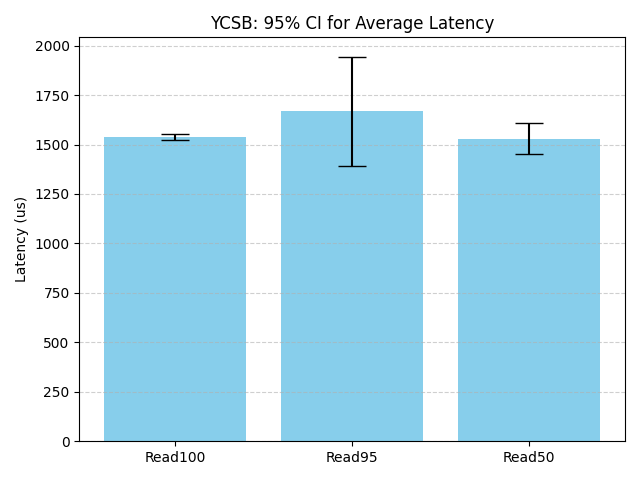
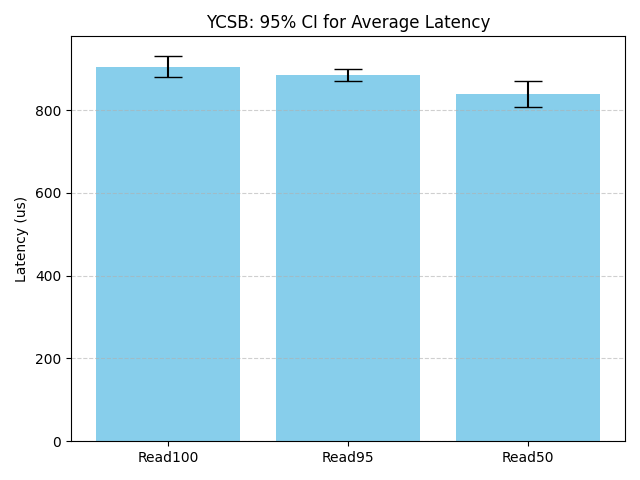
debug

diff --git a/CDFgraphYCSB.py b/CDFgraphYCSB.py
@@ -4,30 +4,84 @@ import numpy as np
 from itertools import accumulate
 #import mplcursors
 from pathlib import Path
+import csv
+import numpy as np
+import plotly.graph_objects as go
 base_path = Path(__file__).parent
 
-file_path = (base_path / "./ecRead4GB.data").resolve()
-OnMB50 = pd.read_csv(file_path,comment='#',skipinitialspace=True)
-OneMB50 = OnMB50.sort_values(by=['client_lat_us'])
-OneMB50.insert(1, 'ID', range(1,  1+ len(OneMB50)))
-OneMB50["ID"] = OneMB50["ID"] / len(OneMB50)
-print(f"green  ec client mean {OneMB50.client_lat_us.mean()}")
-plt.plot( OneMB50.client_lat_us,OneMB50.ID,c='green')#,linestyle=':')
+file1 = (base_path / "./FinalExps/ycsb_results1KB/ec_iter_1Run1000Bytes_read100run.scr").resolve()
+file2 = (base_path / "./FinalExps/ycsb_results1KB/ec_iter_2Run1000Bytes_read100run.scr").resolve()
+file3 = (base_path / "./FinalExps/ycsb_results1KB/ec_iter_3Run1000Bytes_read100run.scr").resolve()
+file4 = (base_path / "./FinalExps/ycsb_results1KB/ec_iter_4Run1000Bytes_read100run.scr").resolve()
+file5 = (base_path / "./FinalExps/ycsb_results1KB/ec_iter_5Run1000Bytes_read100run.scr").resolve()
+
+file6 = (base_path / "./FinalExps/ycsb_results1KB/rep_iter_1Run1000Bytes_read100run.scr").resolve()
+file7 = (base_path / "./FinalExps/ycsb_results1KB/rep_iter_2Run1000Bytes_read100run.scr").resolve()
+file8 = (base_path / "./FinalExps/ycsb_results1KB/rep_iter_3Run1000Bytes_read100run.scr").resolve()
+file9 = (base_path / "./FinalExps/ycsb_results1KB/rep_iter_4Run1000Bytes_read100run.scr").resolve()
+file10 = (base_path / "./FinalExps/ycsb_results1KB/rep_iter_5Run1000Bytes_read100run.scr").resolve()
 
 
-file_path = (base_path / "./repRead4GB.data").resolve()
-OnMB50 = pd.read_csv(file_path,comment='#',skipinitialspace=True)
-OneMB50 = OnMB50.sort_values(by=['client_lat_us'])
-OneMB50.insert(1, 'ID', range(1,  1+ len(OneMB50)))
-OneMB50["ID"] = OneMB50["ID"] / len(OneMB50)
-print(f"red  rep client mean {OneMB50.client_lat_us.mean()}")
-plt.plot( OneMB50.client_lat_us,OneMB50.ID,c='red')#,linestyle=':')
+# Define your groups and their files
+group_files = {
+    "EC": [file1, file2],# file3,file4,file5],
+    "REP": [file6, file7]#, file8,file9,file10]
+}
 
+# Colors for groups — adjust or add more if needed
+group_colors = {
+    "EC": "blue",
+    "REP": "red"
+}
 
-plt.legend(["EC", "REP"], loc="lower right")
-plt.xlabel("Latency (us)")
-plt.title("CDF")
+fig = go.Figure()
+
+for group, files in group_files.items():
+    color = group_colors.get(group, "black")  # fallback color
+    for filename in files:
+        latencies = []
+        try:
+            with open(filename, newline='') as csvfile:
+                reader = csv.reader(csvfile)
+                for row in reader:
+                    if len(row) < 3:
+                        continue
+                    op = row[0].strip().upper()
+                    # Optional: filter ops here if needed
+                    if op not in ("READ", "INSERT"):
+                        continue
+                    try:
+                        latency = float(row[2])
+                        latencies.append(latency)
+                    except ValueError:
+                        continue
+        except FileNotFoundError:
+            print(f"Warning: File not found: {filename}")
+            continue
+
+        if not latencies:
+            print(f"No valid data in {filename}")
+            continue
+
+        latencies = np.sort(latencies)
+        cdf = np.arange(1, len(latencies) + 1) / len(latencies) * 100
+
+        fig.add_trace(go.Scatter(
+            x=latencies,
+            y=cdf,
+            mode='lines',
+            name=f"{group} - {filename}",
+            line=dict(color=color)
+        ))
+
+fig.update_layout(
+    title="Latency CDFs by Group",
+    xaxis_title="Latency (μs)",
+    yaxis_title="Percentile (%)",
+    yaxis=dict(range=[0, 100]),
+    hovermode="x unified"
+)
+
+#fig.show()
+fig.write_html("latency_cdf_plot.html")
 print("done")
-#plt.show()
-plt.savefig('cdf.pdf')
-

diff --git a/confidence.py b/confidence.py
@@ -4,16 +4,16 @@ import matplotlib.pyplot as plt
 
 # rep
 resultsrep = {
-    "Read100": [21535, 1717, 1722, 1717, 1693 ],
-    "Read95": [1716, 1696, 1714, 1674, 1707],
-    "Read50": [1657, 1708, 1648, 1600, 1701]
+    "Read100": [1571, 1555,	1495, 1520,	1518 ],
+    "Read95": [1539,	1501,	1544,	1556,	1594],
+    "Read50": [1189,	1203,	1212,	1190,	1206]
 }
 
 #ec
 resultsec = {
-    "Read100": [1562, 1533, 1537, 1533, 1537],
-    "Read95": [2066, 1579, 1567, 1563, 1568],
-    "Read50": [1457,1493 ,1528,1555,1618 ]
+    "Read100": [943,	892,	899.00,	895,	898],
+    "Read95": [869,	876,	898.00,	891,	887],
+    "Read50": [829,	806,	836.00,	873,	850]
 }
 results = resultsec
 

diff --git a/PercentileYCSB.py b/PercentileYCSB.py
@@ -4,7 +4,7 @@ import numpy as np
 from itertools import accumulate
 from pathlib import Path
 base_path = Path(__file__).parent
-file_path = (base_path / "ycsb_results2/ec_iter_1Run10000Bytes_read95run.scr").resolve()
+file_path = (base_path / "./FinalExps/ycsb_results1KB/ec_iter_5Run1000Bytes_read50run.scr").resolve()
 x =0;
 def parse_raw_ycsb(file_path):
     read_latencies = []
